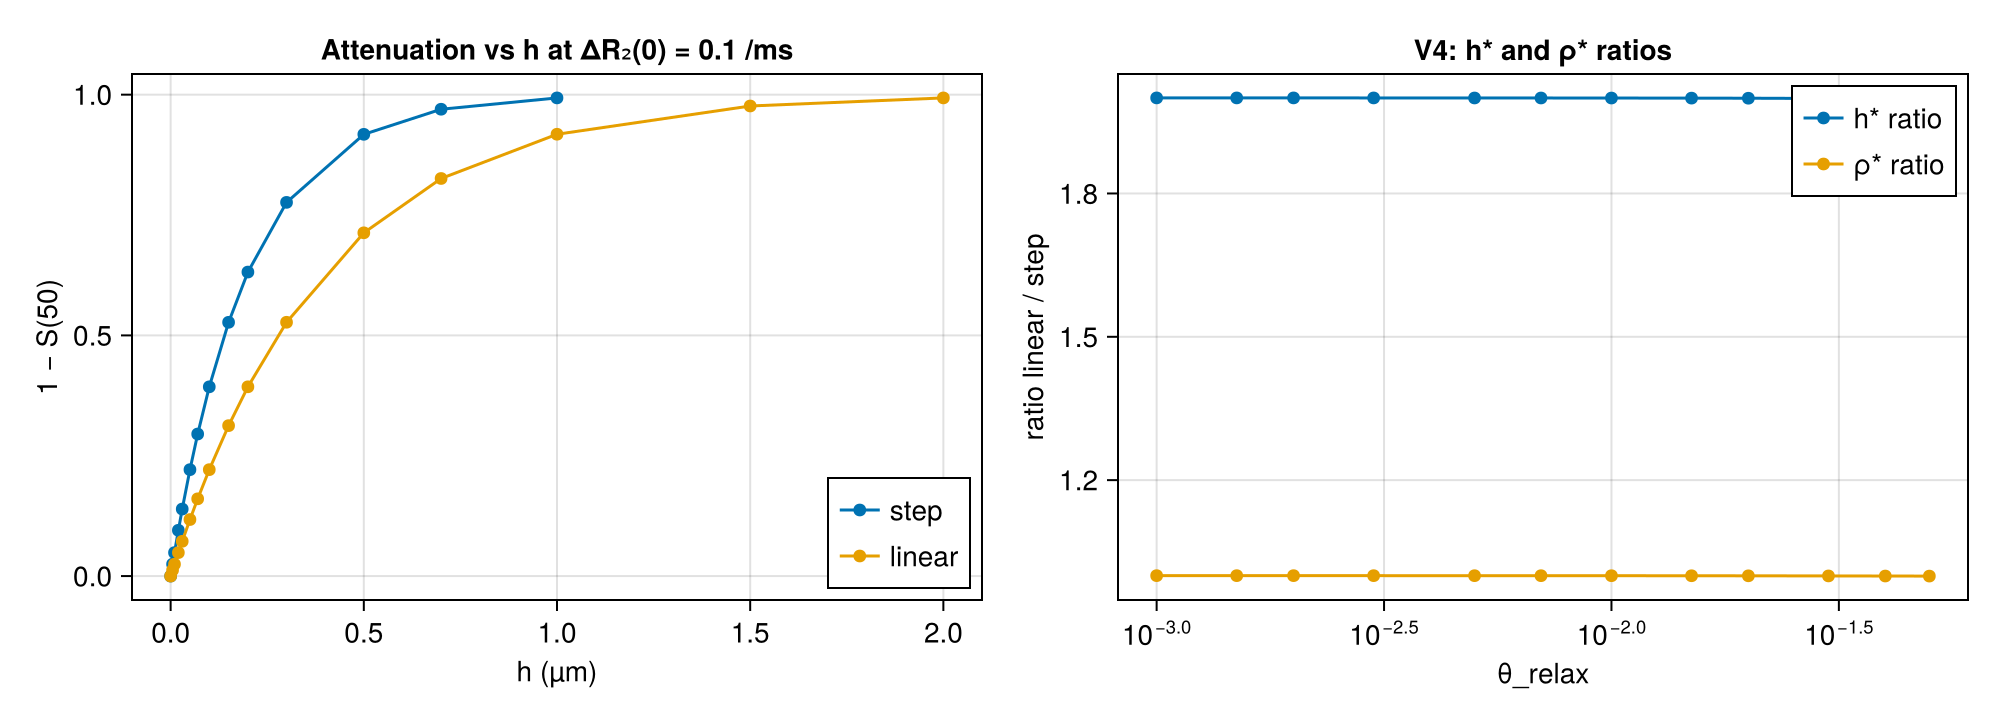
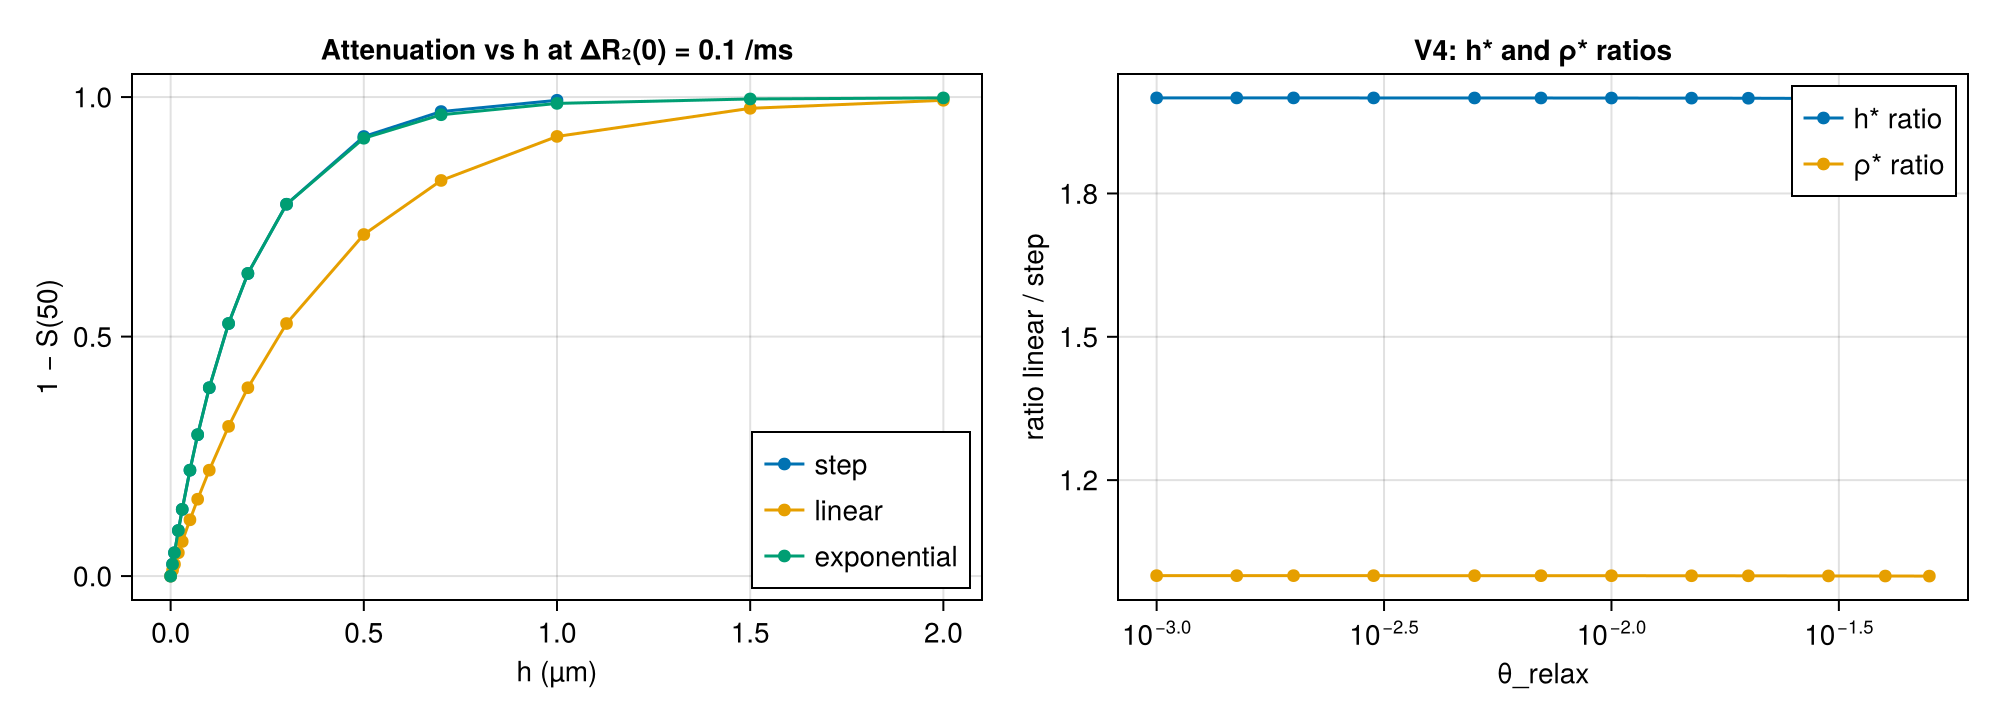
Add the exponential profile to the fixed-rate comparison; update tracker

diff --git a/research/project-progress-tracker.md b/research/project-progress-tracker.md
@@ -13,7 +13,7 @@ Working tracker for implementation. Tick a box when its pass criterion is met, n
 | Phase | Weeks | Scope | Tasks | Done | Status |
 |---|---|---|---|---|---|
 | **Phase 1** | 1–2 (21 Sep – 2 Oct) | Verified baseline, unmodified code | 22 | 19 | ☑ exit criterion met (open: P1.1.3, P1.1.5, optional P1.3.5) |
-| **Phase 2** | 3–11 (5 Oct – 4 Dec) | Implement and verify R₂(d) on wall geometry, no RF | 52 | 35 | ◐ |
+| **Phase 2** | 3–11 (5 Oct – 4 Dec) | Implement and verify R₂(d) on wall geometry, no RF | 52 | 36 | ◐ |
 | Phase 3 | 12–13 | Sensitivity studies (C1–C7), cylinder and sphere geometry | — | — | not yet planned |
 | Phase 4 | 14–15 | Trade-off audit, write-up | — | — | not yet planned |
 
@@ -196,14 +196,14 @@ All profiles normalised so ∫₀^∞ *g*(*u*) d*u* = 1.
 
 | ID | ☐ | Task | Pass criterion | Output |
 |---|---|---|---|---|
-| P2.4.1 | ◐ | Shape-function module: *g*, its closed-form integral along a linear *d*(*t*), and *g*(0) for each profile | Unit tests vs symbolic or high-order numerical integration | step and linear in `layers.jl` (closed form: linear via the midpoint value of g on the piece); polynomial and exponential to come |
-| P2.4.2 | ◐ | Normalisation check: numerically integrate each *g* | ∫*g* = 1 to 10⁻⁸ | step, linear: ∫g = 1 to 1e-10 (`test_layer.jl`) |
+| P2.4.1 | ◐ | Shape-function module: *g*, its closed-form integral along a linear *d*(*t*), and *g*(0) for each profile | Unit tests vs symbolic or high-order numerical integration | step, linear and exponential (truncated at a cutoff, renormalised) in `layers.jl`, all closed form along a straight piece; polynomial to come |
+| P2.4.2 | ◐ | Normalisation check: numerically integrate each *g* | ∫*g* = 1 to 10⁻⁸ | step, linear, exponential: ∫g = 1 to 1e-9 (`test_layer.jl`); mean-exponent identity E[−ln M] = 2ρt/w PASS for all three at full size (`p2_4_5_mean_exponent/`) |
 | P2.4.3 | ☑ | Linear profile end-to-end | Single-spin trace exact (P2.2.9); P2.3.4(b)–P2.3.6 and P2.3.11 equivalents (the exact *h* = *w*/2 end point applies to the step profile only) | trace PASS (2.4e-12), exact checks PASS (uniform case h = w), sweep monotone 15/15, curvature 0 within noise: `p2_2_9_layer_trace_linear/`, `p2_4_3_linear_exact/`, `p2_3_4_h_sweep_linear/` |
 | P2.4.4 | ☐ | Polynomial *n* = 2, 3 end-to-end | As above | fig |
-| P2.4.5 | ☐ | Exponential end-to-end, with truncation recorded | As above | fig |
+| P2.4.5 | ☑ | Exponential end-to-end, with truncation recorded | As above | trace PASS (7.1e-13), identity PASS, sweep monotone 15/15, curvature 0 within noise; truncation: cutoff = w, renormalised so ∫g = 1 (no loss of ρ). `p2_2_9_layer_trace_exponential/`, `p2_4_5_mean_exponent/`, `p2_3_4_h_sweep_exponential/` |
 | P2.4.6 | ☐ | Numerical-quadrature path (midpoint vs trapezoid, adaptive, tolerance ε_R₂) for profiles without a closed form | Agrees with closed form at small ε_R₂ | code |
-| P2.4.7 | ◐ | **V4 per profile** — fit *h*\*(θ) to the B4 reference for each profile, fixed ΔR₂(0) | *h*\*(θ) with uncertainty and per-readout residuals for every profile; residuals reported, not pass/fail | linear: h*(θ) for all 12 θ, residuals ≤ 0.5 SEM (`p2_3_9_fit_h_linear/`) |
-| P2.4.8 | ◐ | Profile comparison at fixed ΔR₂(0): overlay the P2.3.4(b)-type curves *S*(*t*; *h*) for all profiles | Differences between profiles reported with σ; no expected equality assumed | step vs linear: ρ* agrees within 9.2e-4, small drift growing with θ (z up to −2.4); both fit within 0.5 SEM; S(t; h) overlay still to do (`p2_4_8_compare_step_linear/`) |
+| P2.4.7 | ◐ | **V4 per profile** — fit *h*\*(θ) to the B4 reference for each profile, fixed ΔR₂(0) | *h*\*(θ) with uncertainty and per-readout residuals for every profile; residuals reported, not pass/fail | linear: h*(θ) for all 12 θ, residuals ≤ 0.5 SEM (`p2_3_9_fit_h_linear/`); exponential skipped (user decision 2026-10-07) |
+| P2.4.8 | ◐ | Profile comparison at fixed ΔR₂(0): overlay the P2.3.4(b)-type curves *S*(*t*; *h*) for all profiles | Differences between profiles reported with σ; no expected equality assumed | step vs linear: ρ* agrees within 9.2e-4, small drift growing with θ (z up to −2.4); both fit within 0.5 SEM; S(t; h) overlay still to do (`p2_4_8_compare_step_linear/`); exponential attenuation added (step ≈ exponential at equal ρ, residual shape effect up to −7.4e-4) |
 | P2.4.9 | ☐ | *(optional)* Power law and half-Gaussian | As P2.4.3 | fig |
 | P2.4.10 | ☐ | Tag `rd-profiles-v1` | Tag exists | git tag |
 

diff --git a/research/phase2_record.md b/research/phase2_record.md
@@ -437,6 +437,27 @@ Script [p2_4_8_compare_step_linear.jl](phase2/p2_4_8_compare_step_linear.jl) →
 - Attenuation at fixed ΔR₂(0) and h (figure, left): the linear layer attenuates less than the step layer of the same h (it has half the ρ).
 - In this configuration (walls 2 µm apart, D = 3 µm²/ms, up to 50 ms, τ = 1e-2) both profiles reproduce every reference curve once h is fitted, and the fitted ρ* differs between them by less than 1e-3. Whether conditions exist where the shapes separate is P2.5.
 
+**Exponential added (2026-10-08; attenuation only, no V4 fit for the exponential by user decision).** S(50) at ΔR₂(0) = 0.1 ms⁻¹ for every h in all three sweeps (`attenuation.csv`; step grid ends at h = 1.0 = w/2):
+
+| h (µm) | S(50) step | S(50) linear | S(50) exponential | ρ step / linear / exponential (µm/ms) |
+|---|---|---|---|---|
+| 0.005 | 0.97531 ± 2e-06 | 0.98758 ± 1e-06 | 0.97531 ± 2e-06 | 0.0005 / 0.0003 / 0.0005 |
+| 0.01 | 0.95123 ± 4e-06 | 0.97531 ± 2e-06 | 0.95123 ± 3e-06 | 0.0010 / 0.0005 / 0.0010 |
+| 0.02 | 0.90486 ± 6e-06 | 0.95123 ± 4e-06 | 0.90486 ± 5e-06 | 0.0020 / 0.0010 / 0.0020 |
+| 0.03 | 0.86076 ± 8e-06 | 0.92776 ± 5e-06 | 0.86075 ± 7e-06 | 0.0030 / 0.0015 / 0.0030 |
+| 0.05 | 0.77893 ± 1e-05 | 0.88253 ± 6e-06 | 0.77890 ± 9e-06 | 0.0050 / 0.0025 / 0.0050 |
+| 0.07 | 0.70489 ± 1e-05 | 0.83952 ± 8e-06 | 0.70484 ± 1e-05 | 0.0070 / 0.0035 / 0.0070 |
+| 0.1 | 0.60686 ± 2e-05 | 0.77891 ± 1e-05 | 0.60676 ± 1e-05 | 0.0100 / 0.0050 / 0.0100 |
+| 0.15 | 0.47286 ± 2e-05 | 0.68749 ± 1e-05 | 0.47267 ± 1e-05 | 0.0150 / 0.0075 / 0.0150 |
+| 0.2 | 0.36847 ± 2e-05 | 0.60682 ± 1e-05 | 0.36820 ± 1e-05 | 0.0200 / 0.0100 / 0.0200 |
+| 0.3 | 0.22374 ± 1e-05 | 0.47278 ± 1e-05 | 0.22377 ± 7e-06 | 0.0300 / 0.0150 / 0.0300 |
+| 0.5 | 0.08240 ± 5e-06 | 0.28697 ± 1e-05 | 0.08600 ± 2e-06 | 0.0500 / 0.0250 / 0.0491 |
+| 0.7 | 0.03028 ± 2e-06 | 0.17411 ± 7e-06 | 0.03694 ± 8e-07 | 0.0700 / 0.0350 / 0.0660 |
+| 1 | 0.00674 ± 3e-19 | 0.08221 ± 3e-06 | 0.01326 ± 2e-07 | 0.1000 / 0.0500 / 0.0865 |
+
+- At fixed ΔR₂(0) the attenuation follows ρ to first order: step and exponential (equal ρ for h ≤ 0.3 µm, since 1 − e^(−w/h) ≥ 0.9987) attenuate almost equally, linear (half the ρ) much less. The residual step–exponential difference at nearly equal ρ (up to −7.4e-4 relative at h = 0.2, z = −14.8) is a profile-shape effect; see the exponential sweep section.
+- For h ≥ 0.5 the exponential's truncation at w lowers its ρ below the step's, and its attenuation falls below the step's accordingly.
+
 ![step vs linear](results/phase2/p2_4_8_compare_step_linear/p2_4_8_compare.png)
 
 ## P2.6.4: profile dependence of the timestep error (step vs linear)
